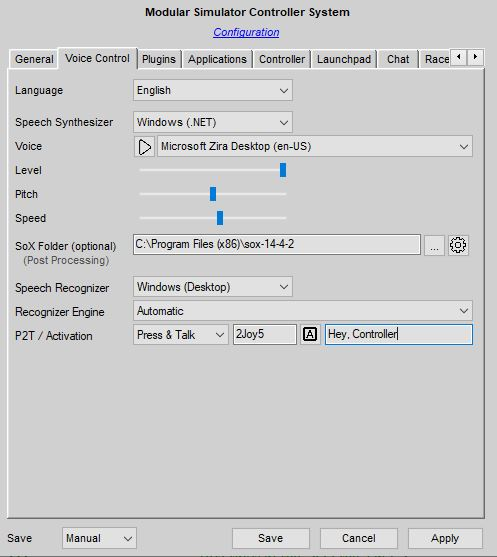
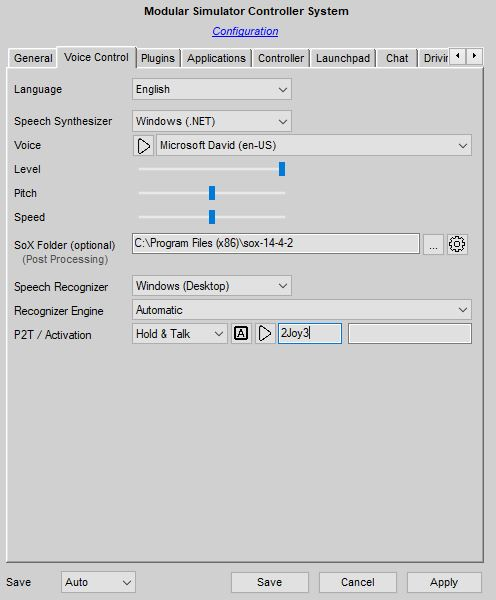
P2T Test Mode Part 3

Changed region(s): [[0.0, 0.0, 0.9677, 1.0], [0.9073, 0.2442, 0.9375, 0.2747]]

diff --git a/Docs/Using Simulator Controller.md b/Docs/Using Simulator Controller.md
@@ -110,7 +110,7 @@ You can choose furthermore, which Assistants will be available and whether they 
 | Muted    | "Muted" means, that the Assistant is fully active, including voice capabilities. But the Assistant will not contact the driver pro-actively, for example, to inform about an upcoming weather change. The Assistant will, however, react to voice commands and will allow full voice interaction, as long as the dialog is opened by the driver. |
 | Active   | This is the normal operation mode of the Assistant with all voice capabilities enabled. |
 
-Note: Although it is technically possible to configure an Assistant with enabled voice output, but disabled voice recognition, this kind of configuration is not offered in the startup profiles, since in environment with an active Push-To-Talk button, this configuration is not necessary.
+Note: Although it is technically possible to configure an Assistant with enabled voice output, but disabled voice recognition, this kind of configuration is not offered in the startup profiles, since in environment with an active *Push-To-Talk* button, this configuration is not necessary.
 
 Additionally, you can activate the ["Autonomous Mode" for strategy handling](https://github.com/SeriousOldMan/Simulator-Controller/wiki/Virtual-Race-Strategist#tab-strategy) by the Assistants, if required. "Default" is available here as well.
 
@@ -180,7 +180,7 @@ Now you can zip this folder and send it to your team mates. They have to unzip i
 
 The Simulator Controller framework supports a sophisticated natural language interface. This capability is used by the Race Assistants Jona and Cato, thereby allowing a fully voice enabled dialog between you and these Assistants, but the voice recognition can also be used to control parts of your controller hardware by voice commands.
 
-With the introduction of a new Race Assistant in Release 3.1 there are now several different *communication partners* and it is very important that the system understands, to whom you are talking. Therefore an activatiom command, very simular to other digital Assistants like Alexa or Cortana, has been introduced. For the Assistants Jona and Cato this is the call phrase "Hey %name%", where %name% is the configured name of the Assistant. For example, if you say "Hi Jona" or "Jona, can you hear me?" for example (as long as you sticked to the preconfigured name "Jona"), the Virtual Race Engineer will start to listen to the following commands. Jona will give you a short answer, so you know that the activation was successful. Beside this activation, the dedicated listen mode will also be activated, when any of the Assistants has asked you a question and is waiting for the answer. The listen mode of the Simulator Controller itself, which allows you to trigger [controller actions](https://github.com/SeriousOldMan/Simulator-Controller/wiki/Installation-&-Configuration#tab-controller) by voice, must be activated by an activation command as well, if you have more than one dialog partner active. This activation command can be configured in the [voice control tab of the configuration tool](https://github.com/SeriousOldMan/Simulator-Controller/wiki/Installation-&-Configuration#tab-voice-control). When this activation command is recognized, you will hear a short chime tone as confirmation and the system is ready to activate controller actions by voice. Please note, that you also hear a different short tone, when you have pressed the [Push-To-Talk](https://github.com/SeriousOldMan/Simulator-Controller/wiki/Installation-&-Configuration#tab-voice-control) control in order to tell you, that you can issue your voice command.
+With the introduction of a new Race Assistant in Release 3.1 there are now several different *communication partners* and it is very important that the system understands, to whom you are talking. Therefore an activatiom command, very simular to other digital Assistants like Alexa or Cortana, has been introduced. For the Assistants Jona and Cato this is the call phrase "Hey %name%", where %name% is the configured name of the Assistant. For example, if you say "Hi Jona" or "Jona, can you hear me?" for example (as long as you sticked to the preconfigured name "Jona"), the Virtual Race Engineer will start to listen to the following commands. Jona will give you a short answer, so you know that the activation was successful. Beside this activation, the dedicated listen mode will also be activated, when any of the Assistants has asked you a question and is waiting for the answer. The listen mode of the Simulator Controller itself, which allows you to trigger [controller actions](https://github.com/SeriousOldMan/Simulator-Controller/wiki/Installation-&-Configuration#tab-controller) by voice, must be activated by an activation command as well, if you have more than one dialog partner active. This activation command can be configured in the [voice control tab of the configuration tool](https://github.com/SeriousOldMan/Simulator-Controller/wiki/Installation-&-Configuration#tab-voice-control). When this activation command is recognized, you will hear a short chime tone as confirmation and the system is ready to activate controller actions by voice. Please note, that you also hear a different short tone, when you have pressed the [*Push-To-Talk*](https://github.com/SeriousOldMan/Simulator-Controller/wiki/Installation-&-Configuration#tab-voice-control) control in order to tell you, that you can issue your voice command.
 
 #### *Activation* commands vs. *normal* commands
 
@@ -200,17 +200,19 @@ Please don't forget to press the *Push-To-Talk* button at the end of your speech
 
 #### Testing voice configuration and voice commands
 
-*After* you have finished all the required [installation and configuration](https://github.com/SeriousOldMan/Simulator-Controller/wiki/Installation-&-Configuration) steps (especially for the [voice support](https://github.com/SeriousOldMan/Simulator-Controller/wiki/Virtual-Race-Engineer#installation) of the Assistants), you can test the dialog with two different Assistants. To do this, please open a Windows command shell (type Windows-R => cmd => Return), go to the *Binaries* folder of the Simulator Controller distribution and enter the following commands (or go the the *Utilities* folder in the installation folder and double-click the file "Voice Test.bat"):
+*After* you have finished all the required [installation and configuration](https://github.com/SeriousOldMan/Simulator-Controller/wiki/Installation-&-Configuration) steps (especially for the [voice support](https://github.com/SeriousOldMan/Simulator-Controller/wiki/Virtual-Race-Engineer#installation) of the Assistants), you can test the dialog with two different Assistants. To do this, use the button with the small "Play" icon on the configuration pages, where you have define the *Push-To-Talk* button.
+	
+Both, the Virtual Race Engineer and the Virtual Race Strategist will start up and will listen to your commands (Jona will be a german personality, while Cato will use English to talk with you). Please note, that if you configured [*Push-To-Talk*](https://github.com/SeriousOldMan/Simulator-Controller/wiki/Installation-&-Configuration#tab-voice-control) in the configuration, you need to hold the respective button, while talking. Since no simulation will be running during your test, the functionality of Jona und Cato will be quite restricted, but you may switch between those Assistants using the activation phrase and you may ask some questions like "Is rain ahead?" or "Wird es regnen?". You may also start the Virtual Race Spotter here, but this will be of no big use, since the Spotter does not answer many questions.
+
+*Important*: When using the voice test, it is necessary due to technical reasons to use the double-press for activation commands. If there is only *one* dialog partner configured, this will be activated for listen mode by default. In this situation, no activation command is necesssary.
+
+As an alternative to starting the test mode from one of the configuration pages, you can do this on your own to have more control. Open a Windows command shell (type Windows-R => cmd => Return), go to the *Binaries* folder of the Simulator Controller distribution and enter the following commands (or go the the *Utilities* folder in the installation folder and double-click the file "Voice Test.bat"):
 
 	D:\Controller\Binaries>"Voice Server.exe" -Debug true
 
 	D:\Controller\Binaries>"Race Engineer.exe" -Debug true -Speaker true -Listener true -Language DE -Name Jona -Logo true
 
 	D:\Controller\Binaries>"Race Strategist.exe" -Debug true -Speaker true -Listener true -language EN -Name Cato -Logo true
-	
-Both, the Virtual Race Engineer and the Virtual Race Strategist will start up and will listen to your commands (Jona will be a german personality, while Cato will use English to talk with you). Please note, that if you configured [*Push-To-Talk*](https://github.com/SeriousOldMan/Simulator-Controller/wiki/Installation-&-Configuration#tab-voice-control) in the configuration, you need to hold the respective button, while talking. Since no simulation will be running during your test, the functionality of Jona und Cato will be quite restricted, but you may switch between those Assistants using the activation phrase and you may ask some questions like "Is rain ahead?" or "Wird es regnen?". You may also start the Virtual Race Spotter here, but this will be of no big use, since the Spotter does not answer many questions.
-
-Note: When using the voice test, it is necessary due to technical reasons to use the double-press for activation commands. If there is only *one* dialog partner configured, this will be activated for listen mode by default. In this situation, no activation command is necesssary.
 
 Beside the *builtin* voice recognition capabilities, you can still use specialized external voice recognition appplications like [VoiceMacro](http://www.voicemacro.net/) as an external event source for controller actions, since these specialized applications might have a better recognition quality in some cases.
 

diff --git a/Docs/Installation & Configuration.md b/Docs/Installation & Configuration.md
@@ -360,6 +360,7 @@ Things to know:
   2. Regardles of what you have configured as listener for each Assistant (see below), a separate listener with the chosen language from this configuration will be used for the activation commands, with or without *Push-To-Talk*. Either the Server recognition engine will be used here (when you have installed the required libraries) or the Desktop recognition engine will be used. This applies always, also when you are not using Azure recognition services.
   3. As mentioned above, using the Azure Cognitive Services without *Push-To-Talk* is not a very good idea. It is not only because of the costs but even more, because the recognition will try to react to each and every thing you say. You will get a lot of "Sorry, can you repeat that, please", while you try to talk to your other Assistants while one is listening using the cloud-based recognition engine.
   4. There are different modes available to choose how the *Push-To-Talk* button behaves. For a detailed explanation see the corresponding [documentation for voice commands](https://github.com/SeriousOldMan/Simulator-Controller/wiki/Using-Simulator-Controller#voice-commands). The mode "Custom" is very special and need you to script the controller action functions "startActivation", "startListen" and "stopListen", which are described further down below.
+  5. Once you have configured the *Push-To-Talk* button, you can start a *Test* mode by pressing the small button with the "Play" icon. Two Assistants will start up and you start a conversation with them. Please note, that due to technical reasons, the activation command mode must be initiated by a double-press. Please see the [documentation for voice commands](https://github.com/SeriousOldMan/Simulator-Controller/wiki/Using-Simulator-Controller#voice-commands) for more information.
 
 Last, but not least, if you have installed [SoX](http://sox.sourceforge.net/), it will be used to apply audio post processing to the spoken voice to achieve a sound like a typical team radio. Really immersive stuff, you won't miss that. When you have chosen the location of the *SoX* application folder, you can click on the small button with gear icon. This opens a small dialog, where you can specify the strength of the different sound effects. The default settings will give you the typical car radio sound with some background noises, crackles and a little bit of distortion.
 
